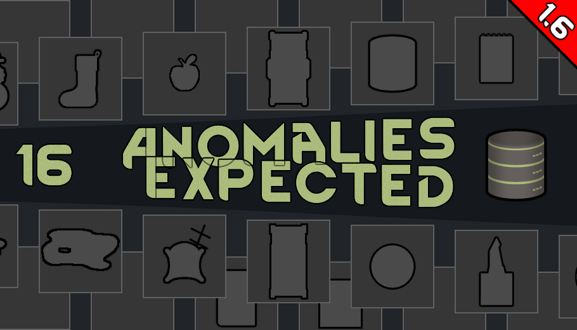
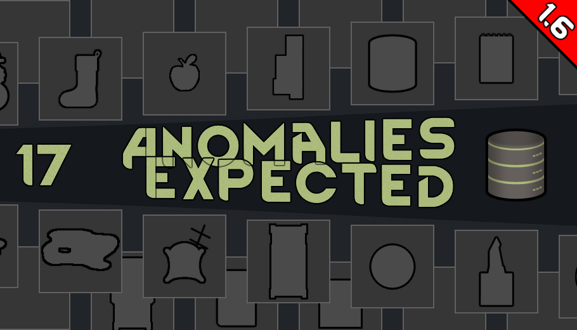
Update release. Fixed CStockings calling for Ghoul. Added patch to disable aging healed notification. Void provocation patch now optional.

diff --git a/Source/Anomalies Expected/HarmonyPatches.cs b/Source/Anomalies Expected/HarmonyPatches.cs
@@ -31,7 +31,7 @@ namespace AnomaliesExpected
             }
 
             PsychicRitualDef_VoidProvocation psychicRitualDef_VoidProvocation = DefDatabase<PsychicRitualDef_VoidProvocation>.GetNamed("VoidProvocation");
-            if (psychicRitualDef_VoidProvocation != null)
+            if (psychicRitualDef_VoidProvocation != null && AEMod.Settings.VoidProvactionCooldown != 120)
             {
                 psychicRitualDef_VoidProvocation.cooldownHours = AEMod.Settings.VoidProvactionCooldown;
             }
@@ -69,6 +69,11 @@ namespace AnomaliesExpected
             val.Patch(AccessTools.Method(typeof(MainTabWindow_Research), "DrawProjectInfo"), transpiler: new HarmonyMethod(patchType, "MTWR_ViewSize_Transpiler"));
             val.Patch(AccessTools.Method(typeof(MainTabWindow_Research), "DrawStartButton"), transpiler: new HarmonyMethod(patchType, "MTWR_ViewSize_Transpiler"));
             val.Patch(AccessTools.Method(typeof(MainTabWindow_Research), "DrawRightRect"), transpiler: new HarmonyMethod(patchType, "MTWR_ViewSize_Transpiler"));
+           
+            if (AEMod.Settings.PatchDisableNotifyHealedAging)
+            {
+                val.Patch(AccessTools.Method(typeof(Pawn_HealthTracker), "HealthTickInterval"), transpiler: new HarmonyMethod(patchType, "PHT_HealthTickInterval_Transpiler"));
+            }
         }
 
         public static bool RPD_IsHidden_Prefix(ref bool __result, ResearchProjectDef __instance)
@@ -463,6 +468,29 @@ namespace AnomaliesExpected
         public static bool CurrentResearchTabAnomaly(ResearchTabDef def)
         {
             return def == ResearchTabDefOf.Anomaly || (def?.minMonolithLevelVisible ?? 0) > 0;
+        }
+
+
+
+        public static IEnumerable<CodeInstruction> PHT_HealthTickInterval_Transpiler(IEnumerable<CodeInstruction> instructions)
+        {
+            List<CodeInstruction> codes = new List<CodeInstruction>(instructions);
+            for (int i = 0; i < codes.Count - 1; i++)
+            {
+                if (codes[i].opcode == OpCodes.Callvirt && codes[i].operand.ToString().Contains("Void Heal(Single)"))
+                {
+                    codes[i] = new CodeInstruction(OpCodes.Call, AccessTools.Method(typeof(HarmonyPatches), "HealthTickIntervalShouldNotifyHeal"));
+                    codes.RemoveAt(i + 1);
+                    break;
+                }
+            }
+            return codes.AsEnumerable();
+        }
+
+        public static bool HealthTickIntervalShouldNotifyHeal(Hediff hediff_Injury, float amount)
+        {
+            hediff_Injury.Heal(amount);
+            return hediff_Injury.def != HediffDefOfLocal.AEAging;
         }
     }
 }

diff --git a/Source/Anomalies Expected/AESettings.cs b/Source/Anomalies Expected/AESettings.cs
@@ -18,6 +18,7 @@ namespace AnomaliesExpected
         public bool NotifyClockworkHandMinute = true;
         public bool NotifyClockworkHandHour = true;
         public bool NotifyClockworkHandDay = true;
+        public bool PatchDisableNotifyHealedAging = true;
         public bool DevDisableClockworkObelisk = false;
         public bool BrokenStatueDisableSpineBreaker = false;
         public bool BrokenStatueLetter = true;
@@ -41,6 +42,7 @@ namespace AnomaliesExpected
             Scribe_Values.Look(ref NotifyClockworkHandMinute, "NotifyClockworkHandMinute", defaultValue: true);
             Scribe_Values.Look(ref NotifyClockworkHandHour, "NotifyClockworkHandHour", defaultValue: true);
             Scribe_Values.Look(ref NotifyClockworkHandDay, "NotifyClockworkHandDay", defaultValue: true);
+            Scribe_Values.Look(ref PatchDisableNotifyHealedAging, "PatchDisableNotifyHealedAging", defaultValue: true);
             Scribe_Values.Look(ref DevDisableClockworkObelisk, "DevDisableClockworkObelisk", defaultValue: false);
             Scribe_Values.Look(ref BrokenStatueDisableSpineBreaker, "BrokenStatueDisableSpineBreaker", defaultValue: false);
             Scribe_Values.Look(ref BrokenStatueLetter, "BrokenStatueLetter", defaultValue: true);

diff --git a/Source/Anomalies Expected/Comp/CompInteractable/Comp_ChristmasStockings.cs b/Source/Anomalies Expected/Comp/CompInteractable/Comp_ChristmasStockings.cs
@@ -101,7 +101,7 @@ namespace AnomaliesExpected
         {
             Job job = JobMaker.MakeJob(Props.jobDef, parent);
             Pawn called = (Pawn)GenClosest.ClosestThing_Global_Reachable(parent.Position, parent.Map, parent.Map.mapPawns.AllHumanlikeSpawned, PathEndMode.OnCell, TraverseParms.For(TraverseMode.PassDoors), 9999f,
-                (Thing t) => t is Pawn p && !p.DeadOrDowned && !p.Drafted && CanInteract(p) && GenClosest.ClosestThing_Global_Reachable(p.Position, p.Map, [parent], PathEndMode.OnCell, TraverseParms.For(p), 9999f) != null);
+                (Thing t) => t is Pawn p && !p.DeadOrDowned && !p.IsSubhuman && !p.Drafted && CanInteract(p) && GenClosest.ClosestThing_Global_Reachable(p.Position, p.Map, [parent], PathEndMode.OnCell, TraverseParms.For(p), 9999f) != null);
             if (called != null)
             {
                 called.jobs.TryTakeOrderedJob(job, JobTag.Misc);

diff --git a/Source/Anomalies Expected/AEMod.cs b/Source/Anomalies Expected/AEMod.cs
@@ -47,6 +47,7 @@ namespace AnomaliesExpected
             options.CheckboxLabeled("AnomaliesExpected.Settings.ObeliskClockwork.HandMinute".Translate().RawText, ref Settings.NotifyClockworkHandMinute);
             options.CheckboxLabeled("AnomaliesExpected.Settings.ObeliskClockwork.HandHour".Translate().RawText, ref Settings.NotifyClockworkHandHour);
             options.CheckboxLabeled("AnomaliesExpected.Settings.ObeliskClockwork.HandDay".Translate().RawText, ref Settings.NotifyClockworkHandDay);
+            options.CheckboxLabeled("AnomaliesExpected.Settings.Patch.DisableNotifyHealedAging".Translate().RawText, ref Settings.PatchDisableNotifyHealedAging);
             options.CheckboxLabeled("Disable Clockwork Obelisk [In case enountered issue]", ref Settings.DevDisableClockworkObelisk);
             options.GapLine();
             options.CheckboxLabeled("AnomaliesExpected.Settings.BrokenStatue.DisableSpineBreaker".Translate(), ref Settings.BrokenStatueDisableSpineBreaker);

diff --git a/Source/Anomalies Expected/DefOfLocal/HediffDefOfLocal.cs b/Source/Anomalies Expected/DefOfLocal/HediffDefOfLocal.cs
@@ -23,5 +23,6 @@ namespace AnomaliesExpected
         public static HediffDef AE_FleshmassBodyMutation;
         [MayRequireAnomaly]
         public static HediffDef AE_FleshmassOrganogenesisCore;
+        public static HediffDef AEAging;
     }
 }

diff --git a/README.md b/README.md
@@ -29,6 +29,7 @@ While usually I try to explain in mod description how mod content work in detail
 ![Text](/Mod%20Page/Images/Content/AEDesc14.png)
 ![Text](/Mod%20Page/Images/Content/AEDesc15.png)
 ![Text](/Mod%20Page/Images/Content/AEDesc16.png)
+![Text](/Mod%20Page/Images/Content/AEDesc17.png)
 
 Anomalies Classification:
 * Class 0 anomaly "Safe".
@@ -39,7 +40,7 @@ Anomalies Classification:
 
 Currently available:
 * 8 Anomaly of basic category
-* 7 Anomaly of advanced category
+* 8 Anomaly of advanced category
 * 1 Anomaly of ultimate category
 * 3 Mysterious cargo
 * 2 Creepjoiner